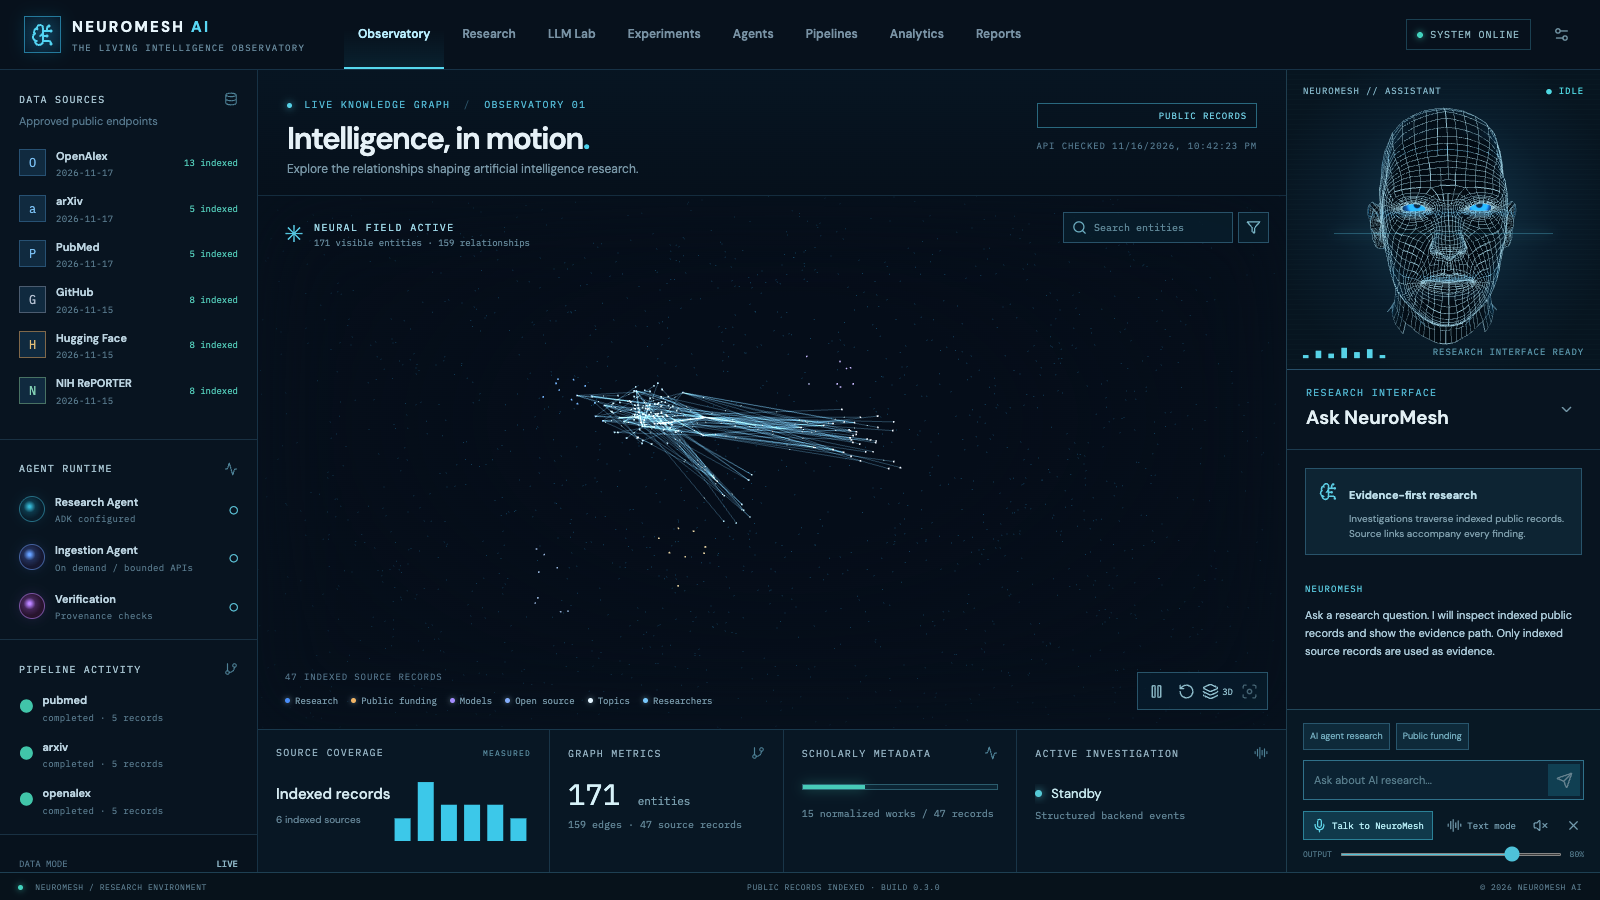
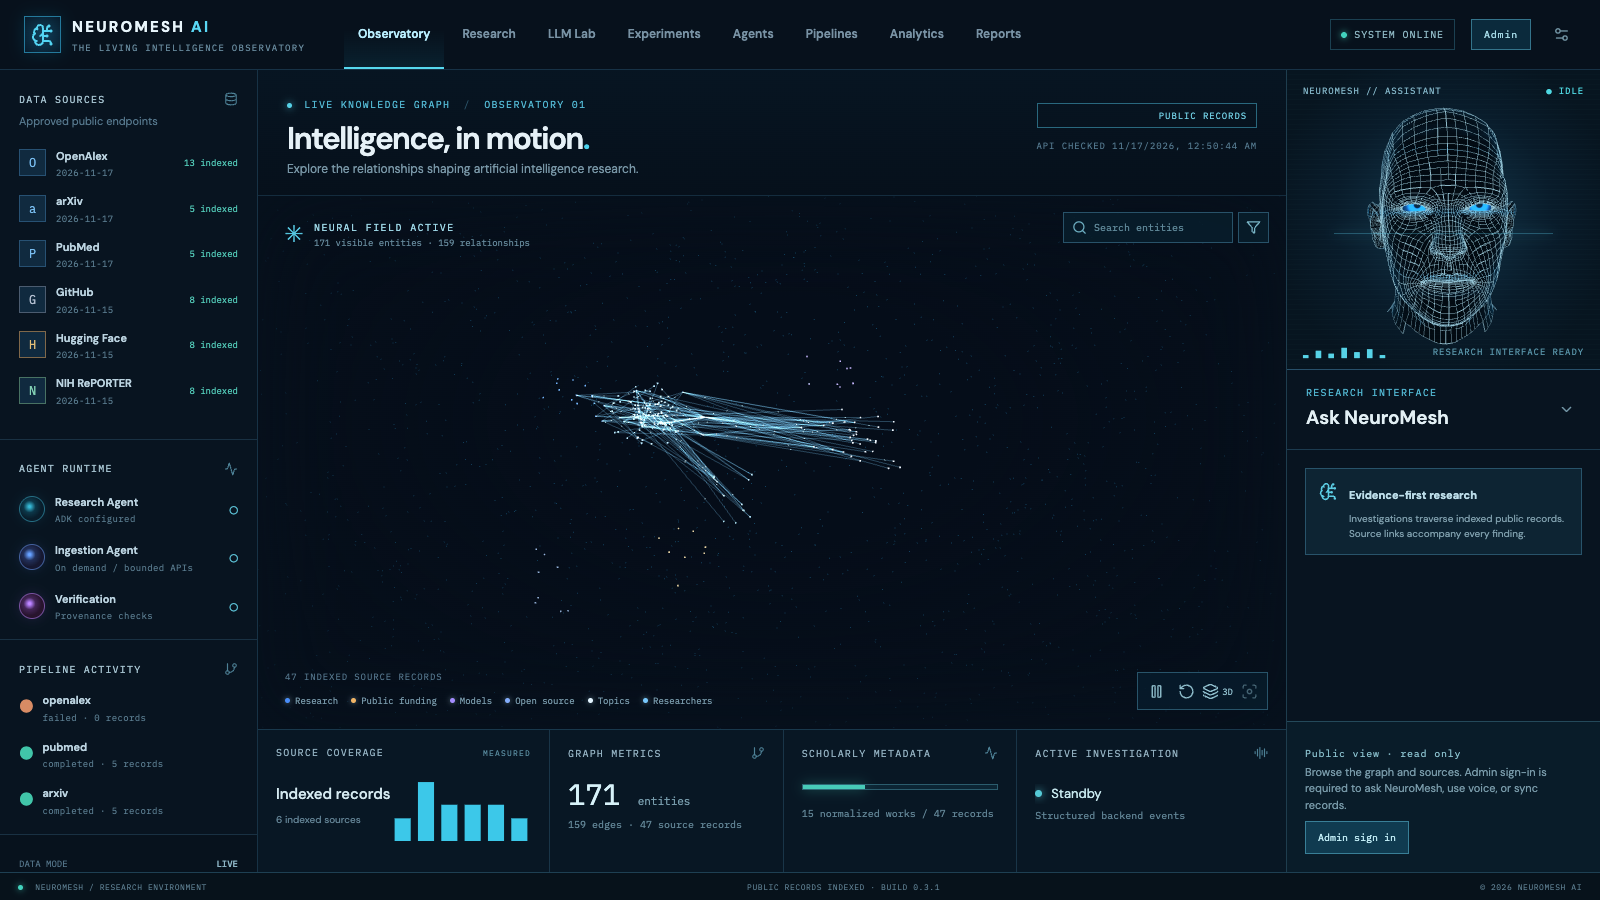
Verify deployed read-only access and admin release

diff --git a/services/api/tests/test_api.py b/services/api/tests/test_api.py
@@ -1,4 +1,5 @@
 import os
+from types import SimpleNamespace
 
 from fastapi.testclient import TestClient
 
@@ -70,6 +71,19 @@ def test_provenance_and_deterministic_analytics(tmp_path, monkeypatch):
                                headers={'X-Admin-Token': 'local-test-secret'})
         assert record['url'] in response.text
         assert reserve_usage('adk_invocation', 1, 1)  # indexed questions do not reserve paid model usage
+
+        async def fake_adk(_question, _evidence, _history):
+            yield SimpleNamespace(author='verification_agent', usage_metadata=None,
+                                  content=SimpleNamespace(parts=[SimpleNamespace(
+                                      text=f'Indexed record: {record["url"]}', function_call=None)]))
+
+        monkeypatch.setattr('neuromesh_api.research.adk_synthesis', fake_adk)
+        agent = client.post('/api/investigate', json={'question': 'Find ai-agents repository', 'mode': 'agent'},
+                            headers={'X-Admin-Token': 'local-test-secret'})
+        assert agent.status_code == 200
+        assert '"mode": "adk"' in agent.text
+        with connect() as db:
+            assert db.execute("SELECT state FROM agent_executions ORDER BY started_at DESC LIMIT 1").fetchone()['state'] == 'completed'
 
 
 def test_cloud_speech_is_operator_only_and_not_cached(tmp_path, monkeypatch):

diff --git a/docs/architecture/costs.md b/docs/architecture/costs.md
@@ -4,6 +4,8 @@ The GCP deployment is live in `moesautomationweekly`. Terraform created a dedica
 
 Release 0.3.0 reused these resources. Its Terraform apply reported **0 added, 1 Cloud Run service changed in place, 0 destroyed**. The one Cloud Build and a few bounded research/voice verification calls add usage-based cost but no new persistent baseline. The NCBI contact is an environment value, not a new Secret Manager resource.
 
+Release 0.3.1 updated the same service in place with **0 added, 1 changed, 0 destroyed**. Public access is read-only. Admin questions use stored evidence by default; Gemini and Cloud voice require separate user actions. The deployment build and browser tests made no provider model or speech calls.
+
 At 730 hours per month in `us-central1`, a new `db-f1-micro` Cloud SQL instance costs about **$7.67 compute** plus about **$1.70 for 10 GiB SSD**, before backup storage and network charges. The shared-core tier has no SLA. Cloud Run has a billing-account-wide free tier, but this project shares the billing account with other workloads, so no free allocation is assumed. Artifact Registry charges beyond its billing-account-wide 0.5 GiB-month free allocation. Cloud Build, Secret Manager, logging, and transfer may add small usage-based charges. The persistent baseline is therefore roughly **$10–$15/month at low traffic**, and **$20–$40/month** is a more prudent test budget. This is an estimate, not a cap.
 
 The initial deployment kept ADK and Cloud TTS off. After a separate operator test approval, **Gemini 3.5 Flash-Lite and Cloud TTS Standard-J are enabled**. Admin questions default to indexed evidence without a model call; the Gemini switch opts into provider use. The app caps model investigations at 20/day with at most four calls and 768 output tokens per agent; Cloud TTS is capped at 20,000 characters/day. The selected Standard voice has a published first 4 million characters per month at no charge, then $4 per million; 20,000 characters every day would be 600,000 per 30-day month, or $2.40 if the free allocation were already exhausted. Gemini Flash-Lite cost depends on input/output tokens. Both provider endpoints require a separate operator token. Public visitors can browse indexed data but cannot submit investigations or trigger provider calls.

diff --git a/docs/architecture/gcp-deployment.md b/docs/architecture/gcp-deployment.md
@@ -13,10 +13,10 @@ export TF_VAR_ncbi_contact_email="$(git config user.email)"
 cd infrastructure/terraform
 terraform init
 terraform validate
-terraform plan -var project_id=moesautomationweekly -var deploy_app=true -var image=us-central1-docker.pkg.dev/moesautomationweekly/neuromesh/observatory@sha256:dbe6240cb6d98de03e625f1840822f2c6a4d3d209e1fafc042ec481b41e868b8 -var enable_adk=true -var model_id=gemini-3.5-flash-lite -var model_location=global -var enable_cloud_tts=true
+terraform plan -var project_id=moesautomationweekly -var deploy_app=true -var image=us-central1-docker.pkg.dev/moesautomationweekly/neuromesh/observatory@sha256:b24c5e2ab85a11a92f4b01b62335f3cef9d7b22fe22651ca97dc60d6d299bba4 -var enable_adk=true -var model_id=gemini-3.5-flash-lite -var model_location=global -var enable_cloud_tts=true
 ```
 
-An empty state originally showed 14 additions and zero changes or deletions. The live state now includes an additional repository-scoped Cloud Build writer grant. Release 0.3.0 used a saved plan with **0 additions, 1 in-place Cloud Run change, and 0 deletions**; a repeat plan on 2026-11-16 found **no changes**. The SQL instance is deletion protected and explicitly uses Cloud SQL Enterprise edition, required for `db-f1-micro` on PostgreSQL 16. Store Terraform state privately; it contains generated database and operator secrets as well as the NCBI contact email. The local state and backup files are ignored by Git and restricted to the owner. Before repeated team use, migrate state to a private encrypted backend with limited access.
+An empty state originally showed 14 additions and zero changes or deletions. The live state now includes an additional repository-scoped Cloud Build writer grant. Release 0.3.1 used a saved plan with **0 additions, 1 in-place Cloud Run image change, and 0 deletions**. The SQL instance is deletion protected and explicitly uses Cloud SQL Enterprise edition, required for `db-f1-micro` on PostgreSQL 16. Store Terraform state privately; it contains generated database and operator secrets as well as the NCBI contact email. The local state and backup files are ignored by Git and restricted to the owner. Before repeated team use, migrate state to a private encrypted backend with limited access.
 
 ## Stage one: durable infrastructure
 

diff --git a/README.md b/README.md
@@ -97,4 +97,4 @@ npm run test:e2e   # with API and web servers running
 node scripts/capture_observatory.mjs
 ```
 
-Local tests exercise source parsing, lineage, relationship withdrawal, memory, experiment cost gates and exports, audio behavior, graph navigation, and cited investigations. The PostgreSQL integration test passed against an isolated local instance. The deployed service passed 11 Playwright browser tests, a live cited-answer and evidence-path check, one bounded ADK investigation, Cloud TTS WAV generation, and a Chrome audio playback check with 20 nonzero PCM face-animation frames and interruption. Physical microphone behavior still depends on Chrome permission and device support. The live graph is small; cross-source identity resolution, scheduled incremental ingestion, graph expansion, dense retrieval, full cognitive benchmarks, and real repeated provider trials remain in progress. [Research results](research/results/README.md) are intentionally empty until measured evidence exists.
+Local tests exercise source parsing, lineage, relationship withdrawal, memory, experiment cost gates and exports, audio behavior, graph navigation, and cited investigations. The PostgreSQL integration test passed against an isolated local instance. Release 0.3.1 passed 13 Playwright browser tests against Cloud Run, including guest denial, invalid Admin sign-in, authorized cited retrieval, voice controls, and sign-out. The live API check also confirmed read-only guest access and an authenticated evidence path without paid provider calls. A prior 0.3.0 test verified a bounded ADK investigation, Cloud TTS WAV generation, and Chrome audio playback with 20 nonzero PCM face-animation frames and interruption. Physical microphone behavior still depends on Chrome permission and device support. The live graph is small; cross-source identity resolution, scheduled incremental ingestion, graph expansion, dense retrieval, full cognitive benchmarks, and real repeated provider trials remain in progress. [Research results](research/results/README.md) are intentionally empty until measured evidence exists.

diff --git a/docs/research-roadmap.md b/docs/research-roadmap.md
@@ -2,7 +2,7 @@
 
 | Gate | Local status | Evidence still needed |
 | --- | --- | --- |
-| Existing application | Passed locally and on Cloud Run 0.3.0 | Physical microphone testing on more devices |
+| Existing application | Passed locally and on Cloud Run 0.3.1 | Physical microphone testing on more devices |
 | Real scholarly ingestion | OpenAlex, arXiv, PubMed pilot persisted in Cloud SQL | Scheduled incremental jobs, larger coverage, provider failure monitoring |
 | Source-backed graph | Cloud graph and evidenced author, topic, institution, citation edges visible; Research source/year/topic/institution filters | Cross-source identity resolution, graph expansion and temporal UI |
 | Research assistant | Deployed cited answers, graph SSE paths, operator ADK and Cloud TTS verified | Larger citation-quality evaluation |
@@ -10,4 +10,4 @@
 | Controlled experiments | Frozen dataset workflow and four-config runner implemented | Human review, cognitive task suite, authorized real model trials and ablations |
 | Research reporting | JSON/CSV and Markdown generation from recorded trials | Authentic measured run and methodological review |
 
-The reviewed 0.3.0 deployment updated the existing Cloud Run service in place. No GitHub push was made. Experimental model comparisons still require human task review and separate cost approval.
+The reviewed 0.3.1 deployment updated the existing Cloud Run service in place. Public access is read-only; Admin sign-in is required for research questions and source updates. No GitHub push was made. Experimental model comparisons still require human task review and separate cost approval.

diff --git a/docs/architecture-audit.md b/docs/architecture-audit.md
@@ -77,4 +77,4 @@ These checks validate a working research browsing and assistant path. They do no
 
 ## Access-control update — 2026-11-17
 
-Release 0.3.1 changes the public interface to read-only. The backend rejects unauthenticated investigations before writing an investigation record or calling an agent, and existing synchronization and speech routes remain token-protected. The Admin button verifies the private token against `/api/admin/session` before exposing chat, voice, and sync controls. Admin questions default to indexed evidence; Google ADK requires a separate Gemini switch. Signing out stops active work and clears the tab's conversation. Local API and browser tests cover guest denial, invalid sign-in, authorized research, voice behavior, and sign-out.
+Release 0.3.1 changes the public interface to read-only. The backend rejects unauthenticated investigations before writing an investigation record or calling an agent, and existing synchronization and speech routes remain token-protected. The Admin button verifies the private token against `/api/admin/session` before exposing chat, voice, and sync controls. Admin questions default to indexed evidence; Google ADK requires a separate Gemini switch. Signing out stops active work and clears the tab's conversation. Local API and browser tests cover guest denial, invalid sign-in, authorized research, voice behavior, and sign-out. The release deployed as one Cloud Run image update with no new resources; 13 Playwright tests and an operator/guest API check passed against the live URL. The README screenshot was recaptured from that deployed revision.

diff --git a/docs/system-architecture.md b/docs/system-architecture.md
@@ -24,7 +24,7 @@ The public interface exposes read-only records, graph evidence, and analytics. R
 - Deterministic parsers normalize identifiers and create relationships only from source fields. Model prose is not persisted as a verified relationship.
 - Browser code receives no provider key. The operator token stays in browser memory and is sent only to protected endpoints.
 - A public visitor can inspect evidence and browse records. They cannot submit investigations, run ingestion, use speech, call ADK, or run experiments.
-- Release 0.3.0 is deployed on the existing Cloud Run service and Cloud SQL database. Terraform added no resource during this release. Further resource or cost changes require review.
+- Release 0.3.1 is deployed on the existing Cloud Run service and Cloud SQL database. Terraform added no resource during this release. Further resource or cost changes require review.
 
 ## Current limits
 
